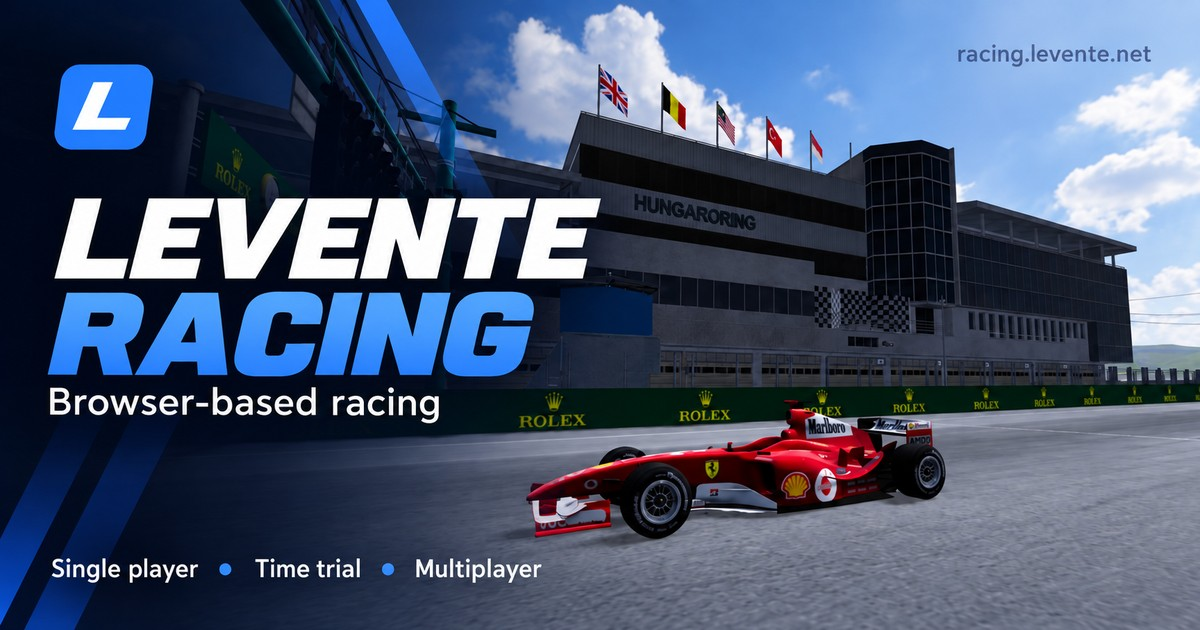
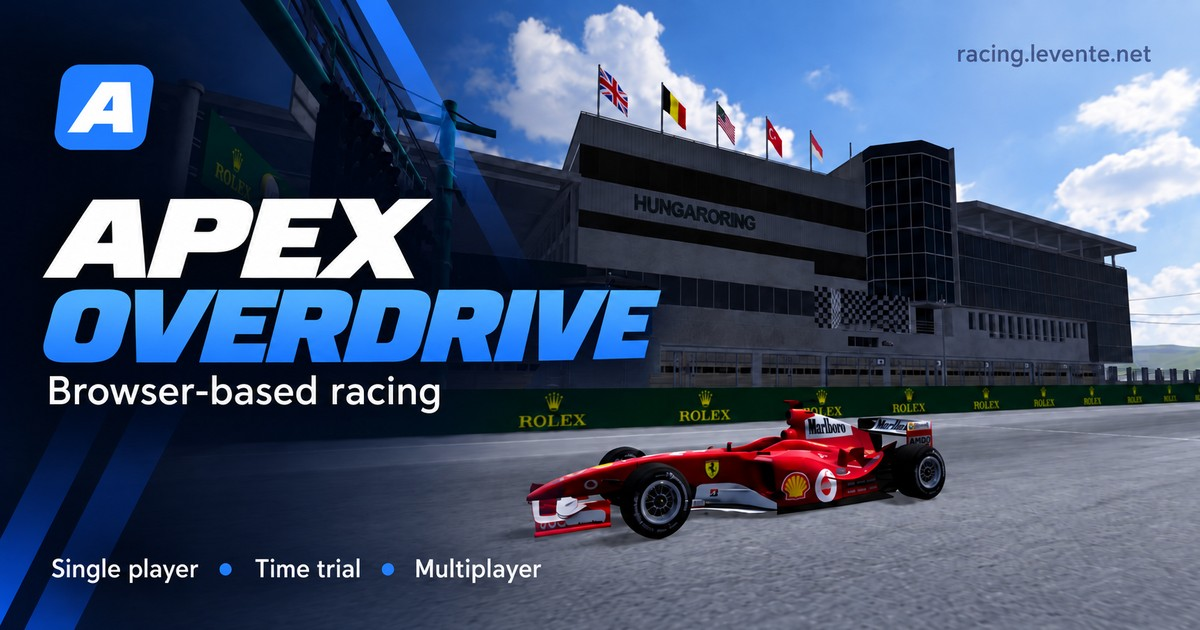
Rebrand racing game to Apex Overdrive

diff --git a/web/index.html b/web/index.html
@@ -4,26 +4,26 @@
 <meta charset="utf-8" />
 <meta name="viewport" content="width=device-width, initial-scale=1" />
 <meta name="description" data-i18n-content="meta.description" content="Böngészőben játszható autóverseny egyjátékos, szerverhiteles időmérő és többjátékos móddal, több autóval és versenypályával." />
-<title>Levente Racing</title>
+<title>Apex Overdrive</title>
 <link rel="canonical" href="https://racing.levente.net/" />
 <meta property="og:type" content="website" />
-<meta property="og:site_name" content="Levente Racing" />
+<meta property="og:site_name" content="Apex Overdrive" />
 <meta property="og:locale" content="en_US" />
-<meta property="og:title" content="Levente Racing" />
+<meta property="og:title" content="Apex Overdrive" />
 <meta property="og:description" content="Race in your browser with single-player races, server-verified time trials and multiplayer, a range of cars and real-world circuits." />
 <meta property="og:url" content="https://racing.levente.net/" />
-<meta property="og:image" content="https://racing.levente.net/assets/og-cover-en.jpg" />
-<meta property="og:image:secure_url" content="https://racing.levente.net/assets/og-cover-en.jpg" />
+<meta property="og:image" content="https://racing.levente.net/assets/apex-overdrive-cover-en.jpg" />
+<meta property="og:image:secure_url" content="https://racing.levente.net/assets/apex-overdrive-cover-en.jpg" />
 <meta property="og:image:type" content="image/jpeg" />
 <meta property="og:image:width" content="1200" />
 <meta property="og:image:height" content="630" />
-<meta property="og:image:alt" content="Levente Racing cover featuring a red Formula racing car at the Hungaroring, with the game title and game modes." />
+<meta property="og:image:alt" content="Apex Overdrive cover featuring a red Formula racing car at the Hungaroring, with the game title and game modes." />
 <meta name="twitter:card" content="summary_large_image" />
-<meta name="twitter:title" content="Levente Racing" />
+<meta name="twitter:title" content="Apex Overdrive" />
 <meta name="twitter:description" content="Race in your browser with single-player races, server-verified time trials and multiplayer, a range of cars and real-world circuits." />
-<meta name="twitter:image" content="https://racing.levente.net/assets/og-cover-en.jpg" />
-<meta name="twitter:image:alt" content="Levente Racing cover featuring a red Formula racing car at the Hungaroring, with the game title and game modes." />
-<link rel="icon" type="image/svg+xml" href="favicon.svg" />
+<meta name="twitter:image" content="https://racing.levente.net/assets/apex-overdrive-cover-en.jpg" />
+<meta name="twitter:image:alt" content="Apex Overdrive cover featuring a red Formula racing car at the Hungaroring, with the game title and game modes." />
+<link rel="icon" type="image/svg+xml" href="favicon.svg?v=apex-overdrive" />
 <link href="vendor/bootstrap.min.css" rel="stylesheet">
 <link href="style.css" rel="stylesheet">
 <script>
@@ -66,7 +66,7 @@
       </defs>
       <rect width="100" height="100" rx="22" fill="url(#dwLogo)"/>
       <text x="50" y="50" font-family="Arial, sans-serif" font-weight="800" font-style="italic"
-            font-size="62" fill="#ffffff" text-anchor="middle" dominant-baseline="central">L</text>
+            font-size="62" fill="#ffffff" text-anchor="middle" dominant-baseline="central">A</text>
     </svg>
     <h2 id="dataWarningTitle"></h2>
     <p class="data-warning-note" data-i18n="dataWarning.note">
@@ -96,7 +96,7 @@
             data-i18n-title="menu.language" title="Nyelv"></select>
   </div>
 
-  <h1>Levente Racing</h1>
+  <h1>Apex Overdrive</h1>
   <div class="menu-sub" data-i18n="menu.subtitle">Körverseny</div>
 
   <div class="menu-primary-fields">
@@ -185,7 +185,7 @@
     <a id="menuCopyright" href="https://github.com/szabolevi98" target="_blank"
        rel="noopener noreferrer" data-i18n-aria-label="menu.githubProfile"
        aria-label="szabolevi98 GitHub-profilja">Copyright © <span id="copyrightYear"></span> szabolevi98</a>
-    <span aria-hidden="true"> · </span><a id="menuSource" href="https://github.com/szabolevi98/racing" target="_blank"
+    <span aria-hidden="true"> · </span><a id="menuSource" href="https://github.com/szabolevi98/apex-overdrive" target="_blank"
        rel="noopener noreferrer" data-i18n="menu.sourceCode">Forráskód (AGPLv3)</a>
     <div id="menuCredits"><span data-i18n="menu.credits">A 3D-modellek nagy részének készítője:</span>
       <a href="https://sketchfab.com/Tyler_Dave" target="_blank" rel="noopener noreferrer">Tyler_Dave</a> ·

diff --git a/web/style.css b/web/style.css
@@ -294,9 +294,8 @@ html.data-warning-pending:not(.data-warning-ready) .data-warning-box { visibilit
    szándékosan nem használunk, mert a nyelv nem ország — az angolnak nincs
    egyértelmű zászlaja.
 
-   Miért abszolút, és miért nem a cím MELLETT? A "Levente Racing" 2.25rem-es
-   címnek 274 px kell, a mezőnek 126, a menü belső szélessége viszont 318 —
-   egy sorban 94 px-szel nem férnek el, tehát a cím kettétörne. A sarokba
+   Miért abszolút, és miért nem a cím MELLETT? Az "Apex Overdrive" cím és
+   a nyelvválasztó együtt nem férne el a keskeny menüben. A sarokba
    kiemelve viszont a saroknak úgysincs más gazdája, és a mező NULLA sort visz
    el a sűrű menüből. */
 .lang-field { position: absolute; top: 16px; right: 17px; z-index: 60; }

diff --git a/server/index.js b/server/index.js
@@ -130,7 +130,7 @@ await initDb();
 attachWebSocket(server);
 
 server.listen(PORT, HOST, () => {
-  console.log(`Racing szerver fut:  http://${HOST || 'localhost'}:${PORT}`);
+  console.log(`Apex Overdrive szerver fut:  http://${HOST || 'localhost'}:${PORT}`);
   if (HOST) console.log(`Csak a ${HOST} interfészen figyel (HOST env)`);
   if (ALLOW_DEV_WRITES) console.log('Fejlesztői mentés: BE (ALLOW_DEV_WRITES=0 kapcsolja ki)');
 });

diff --git a/docs/OG-COVER.md b/docs/OG-COVER.md
@@ -1,66 +1,36 @@
-# Levente Racing social cover
+# Apex Overdrive social cover
 
-The English Open Graph / Twitter cover is `web/assets/og-cover-en.jpg`.
+The current English Open Graph / Twitter cover is `web/assets/apex-overdrive-cover-en.jpg`.
 Final output: **1200 × 630 pixels**, RGB JPEG, quality 90, optimized and progressive.
-Its public URL is `https://racing.levente.net/assets/og-cover-en.jpg`.
+Public URL: `https://racing.levente.net/assets/apex-overdrive-cover-en.jpg`.
 
-## Reference images
+The domain remains `racing.levente.net`. The logo is a white italic **A** in a
+rounded blue square. The title reads white **APEX** above blue **OVERDRIVE**.
+The former `og-cover-en.jpg` and `og-cover.jpg` URLs are compatibility copies
+of the current English cover, so old shared links also receive current branding.
+`racing.png` in the repository root remains the original gameplay reference.
 
-- `racing.png`: the original gameplay screenshot in the repository root. The
-  portfolio uses the same screenshot. Use it as the background reference when
-  regenerating the cover from scratch.
-- `web/assets/og-cover.jpg`: the original Hungarian cover. Use it as the edit
-  target for the English translation prompt below.
-- `web/assets/og-cover-en.jpg`: the final English cover. Use it as the reference
-  for future variations that should retain the current design.
+## Image generation
 
-## Prompt: regenerate from the gameplay screenshot
+Rebranded with the built-in image generation tool using the previous English
+cover as the edit target and this exact prompt:
 
-Attach `racing.png` and use this English prompt:
-
-> Create a polished Open Graph social share cover for Levente Racing, a
-> browser-based racing game. Landscape format, exactly 1200 × 630 pixels,
-> aspect ratio 1.90476:1. Use the attached real gameplay screenshot as the
-> background reference. Preserve the recognizable red Formula racing car,
-> Hungaroring pit building, sky, and original game-rendered appearance.
-> Remove the minimap HUD from the bottom left.
->
-> Add a dark navy gradient overlay, strongest on the left and fading toward
-> the right, with subtle diagonal racing stripes in accent blue #4d8dff.
-> Keep the red car clearly visible in the lower center-right. At the top left,
-> place a small white italic L inside a rounded blue square, matching the
-> site's favicon. Below it, set the large bold italic sans-serif title on
-> two lines: "LEVENTE" in white and "RACING" in blue.
->
-> Directly below the title, place the exact subtitle "Browser-based racing"
-> in smaller white sans-serif type. Along the bottom left, place the exact
-> labels "Single player", "Time trial", and "Multiplayer", separated by
-> small blue dots. In the top right, place the muted URL "racing.levente.net".
-> Keep text at least 45 pixels inside the edges and legible at thumbnail size.
->
-> Use only the specified text. Do not invent cars or scenery, add buttons or
-> fake interfaces, change the game-rendered look, or add borders or watermarks.
-
-## Prompt: translate the original cover
-
-This is the exact prompt used with the built-in image generation tool for
-the English version. Attach `web/assets/og-cover.jpg`:
-
-> Edit the provided Levente Racing Open Graph cover to English. Preserve the entire design, composition, typography style, title, blue L logo, colors, gradients, blue diagonal accents, URL, red Formula racing car, Hungaroring pit building, sky and game-rendered appearance. Change ONLY the Hungarian text: replace 'Böngészős autóverseny' with 'Browser-based racing'; replace 'Egyjátékos' with 'Single player'; replace 'Időmérés' with 'Time trial'. Keep 'LEVENTE', 'RACING', 'Multiplayer', and 'racing.levente.net' exactly as they are. Keep subtitle beneath title and the three mode labels along the bottom left with the same small blue dot separators. Preserve all other details. Text must be spelled exactly and legible. Landscape 1200 x 630 pixels, aspect ratio 1.90476:1. No new text or objects, no cropping, no watermark.
+> Use case: text-edit. Edit target: the attached English racing game cover. Rebrand the game to APEX OVERDRIVE. Preserve the Hungaroring pit building, sky, original game-rendered red Formula racing car, road, navy gradient, blue diagonal accents and overall visual style. Replace the blue square's white italic L with a white italic A. Replace the title LEVENTE RACING with two lines: APEX in bold italic white, OVERDRIVE in bold italic blue. OVERDRIVE must fit completely, resizing/rebalancing the typography if necessary, no overlap with the car. Keep exact subtitle 'Browser-based racing', exact labels 'Single player', 'Time trial', 'Multiplayer', and exact URL 'racing.levente.net'. Landscape social cover aspect ratio 1200:630, all text at least 45px inside edges at final 1200x630 size. No other text, no watermark, no cropping of car, preserve recognizable scenery. Return the edited image and save the output as a local file.
 
 ## Export and verify
 
-1. Inspect the generated image: exact spelling, complete car, correct logo,
-   no minimap, readable text, and no clipped content.
-2. If the generator returns a larger image, resize to 1200 × 630 using Lanczos.
-   Export as RGB JPEG with quality 90, optimized and progressive.
-3. When replacing a deployed cover, use a new filename (for example
-   `og-cover-en-v2.jpg`) and update `og:image`, `og:image:secure_url`, and
-   `twitter:image` in `web/index.html` so cached images can refresh.
-4. Keep `og:image:width`, `og:image:height`, `og:image:type`, and both image
-   alt descriptions consistent with the actual file.
-5. Verify public HTTPS access, `image/jpeg` content type, and a matching
-   SHA-256 between the deployed file and the local export.
+1. Inspect exact spelling, A logo, complete car, recognizable scenery and unclipped text.
+2. Resize to 1200 × 630 with Lanczos; export RGB JPEG at quality 90, optimized and progressive.
+3. Update the compatibility copies when replacing the current cover.
+4. Use a new public filename for future cover changes to refresh social caches.
+5. Keep the static Open Graph / Twitter URLs, dimensions and alt descriptions
+   in `web/index.html` consistent with the actual file.
 
-The title, description and cover URL are static HTML metadata so social
-sharing crawlers can read them without running JavaScript.
+## Portfolio
+
+The portfolio full source is `web/assets/img/projects/apex-overdrive.png`
+(1200 × 630). Its dedicated thumbnail source is
+`web/assets/img/projects/thumbs/apex-overdrive.png` (**500 × 300**, 5:3).
+The thumbnail is composed separately; do not center-crop the full cover to make it.
+Its generation prompt and safe-area requirements are in the portfolio's
+`tools/apex-overdrive-thumbnail-prompt.md`.

diff --git a/README.md b/README.md
@@ -1,6 +1,6 @@
-# Racing
+# Apex Overdrive
 
-![Levente Racing — Browser-based racing](web/assets/og-cover-en.jpg)
+![Apex Overdrive — Browser-based racing](web/assets/apex-overdrive-cover-en.jpg)
 
 Böngészőben futó autóverseny-játék valós pályákkal és autókkal. Three.js
 megjelenítés, Rapier fizika, Node.js szerver, WebSocket multiplayer és opcionális
@@ -427,7 +427,7 @@ licencszöveget a [LICENSE](LICENSE) tartalmazza.
 Ha egy módosított változatot hálózaton keresztül mások számára elérhetővé teszel,
 a felhasználóinak jól látható módon fel kell ajánlanod az adott változathoz
 tartozó teljes forráskód ingyenes elérését, a licenc 13. szakasza szerint.
-A játék menüjében közvetlen [forráskódlink](https://github.com/szabolevi98/racing)
+A játék menüjében közvetlen [forráskódlink](https://github.com/szabolevi98/apex-overdrive)
 található. Éles játék: [racing.levente.net](https://racing.levente.net).
 
 A külső könyvtárakra, valamint az autó-, pálya- és környezetmodellekre továbbra
